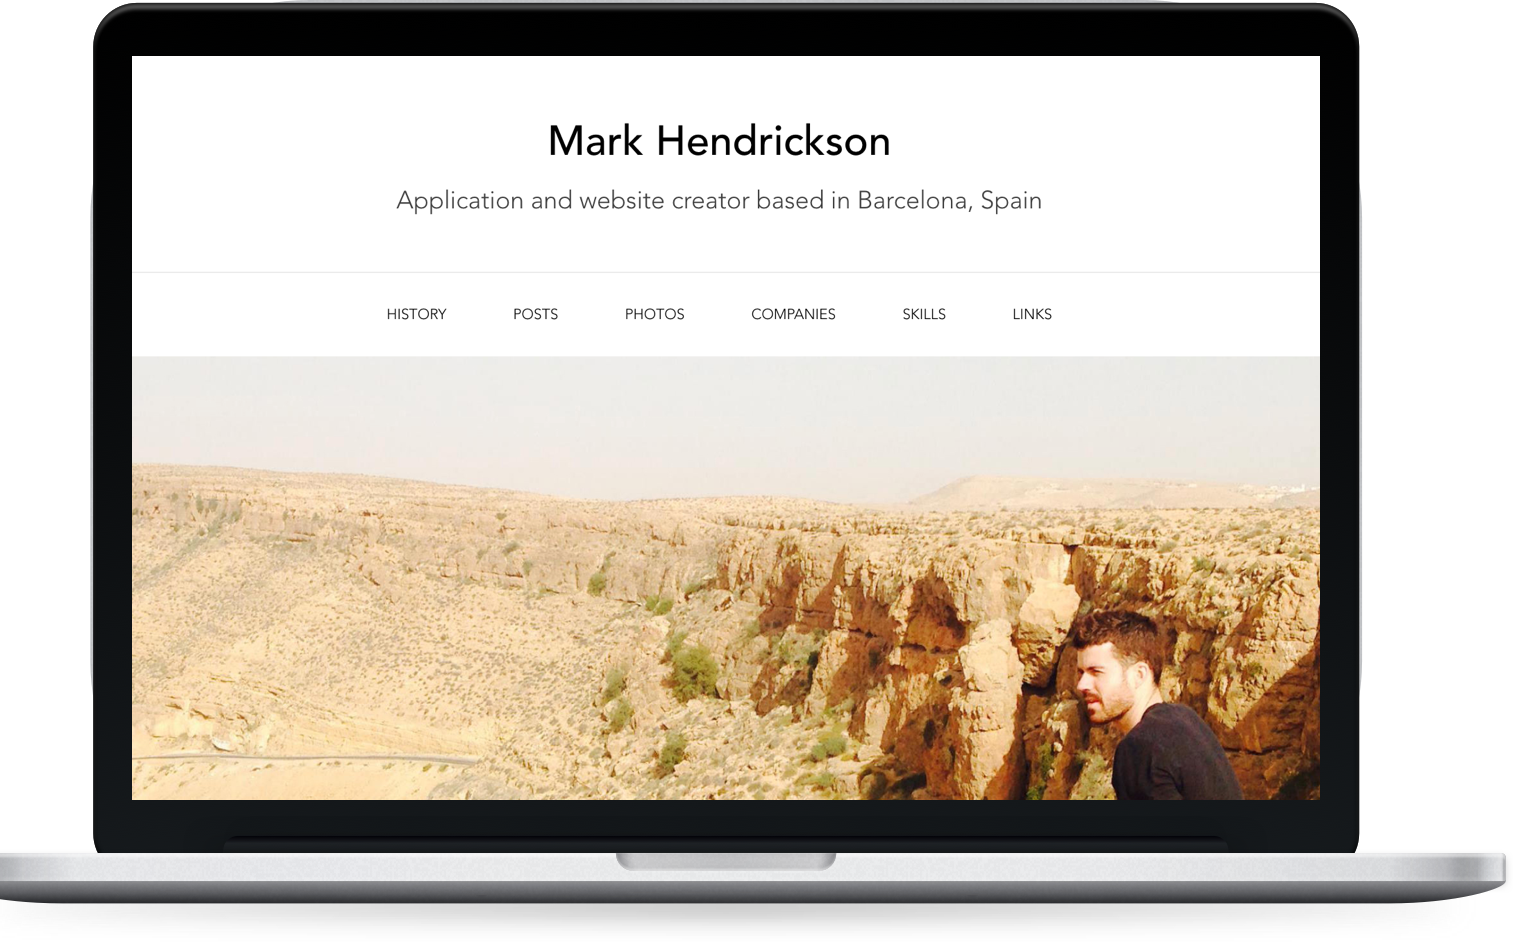
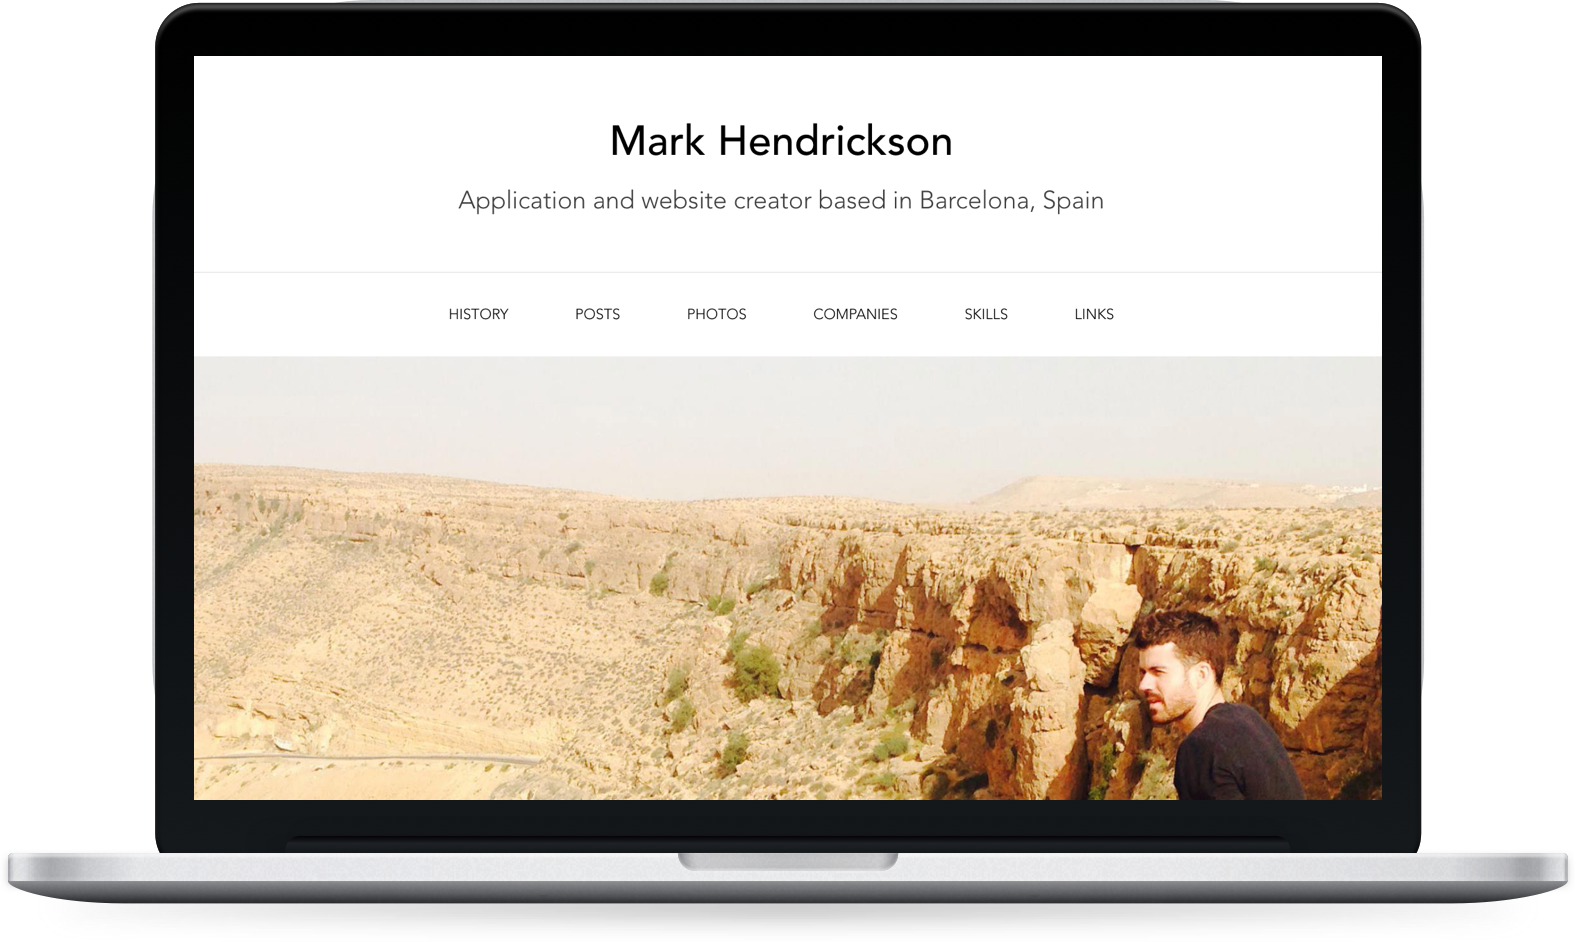
Improve responsive formatting of homepage

diff --git a/app/styles/components/app-intro-section.less b/app/styles/components/app-intro-section.less
@@ -8,7 +8,31 @@
   }
 }
 
-@keyframes laptopAppear {
+@keyframes laptopAppearNarrow {
+  from {
+    opacity: 0;
+    transform: translateX(-100%) translateY(0);
+  }
+
+  to {
+    opacity: 1;
+    transform: translateX(-50%) translateY(0);
+  }
+}
+
+@keyframes mobileAppearNarrow {
+  from {
+    opacity: 0;
+    transform: translateX(25%) translateY(65%);
+  }
+
+  to {
+    opacity: 1;
+    transform: translateX(25%) translateY(45%);
+  }
+}
+
+@keyframes laptopAppearWide {
   from {
     opacity: 0;
     transform: translateX(-100%) translateY(-50%);
@@ -16,64 +40,83 @@
 
   to {
     opacity: 1;
-    transform: translateX(-15%) translateY(-50%);
+    transform: translateX(0) translateY(-50%);
   }
 }
 
-@keyframes mobileAppear {
+@keyframes mobileAppearWide {
   from {
     opacity: 0;
-    transform: translateX(150%) translateY(-20%);
+    transform: translateX(220%) translateY(-20%);
   }
 
   to {
     opacity: 1;
-    transform: translateX(150%) translateY(-30%);
+    transform: translateX(220%) translateY(-30%);
   }
 }
 
 section.app-intro {
   .standard-hero;
 
-  div {
-    &.content {
-      animation-delay: 0.75s;
-      animation-duration: 1s;
-      animation-fill-mode: forwards;
-      animation-name: contentAppear;
-      opacity: 0;
+  div.content {
+    animation-delay: 0.75s;
+    animation-duration: 1s;
+    animation-fill-mode: forwards;
+    animation-name: contentAppear;
+    padding: 2em;
+    opacity: 0;
+
+    @media (min-width: 900px) {
+      padding: 0;
+    }
+  }
+
+  div.images {
+    height: 24vh;
+
+    @media (min-width: 900px) {
+      height: auto;
     }
 
     img {
       position: absolute;
-      left: 0;
-      max-height: 90vh;
+      left: 50%;
+      top: 0;
       max-width: 100%;
-      transform: translateY(-50%);
-      top: 50%;
-    }
 
-    &:first-child {
-      img.laptop-preview {
-        animation-duration: 0.75s;
-        animation-fill-mode: forwards;
-        animation-name: laptopAppear;
-        transform: translateX(-15%) translateY(-50%);
+      @media (min-width: 900px) {
+        left: 0;
+        transform: translateY(-50%);
+        top: 50%;
       }
 
-      img.mobile-preview {
+      &.laptop-preview {
+        animation-duration: 0.75s;
+        animation-fill-mode: forwards;
+        animation-name: laptopAppearNarrow;
+        height: 100%;
+
+        @media (min-width: 900px) {
+          animation-name: laptopAppearWide;
+          height: auto;
+        }
+      }
+
+      &.mobile-preview {
         animation-delay: 0.75s;
         animation-duration: 0.75s;
         animation-fill-mode: forwards;
-        animation-name: mobileAppear;
+        animation-name: mobileAppearNarrow;
+        height: 75%;
         opacity: 0;
-        transform: translateX(150%) translateY(-30%);
-        width: 25%;
-      }
-    }
 
-    &:last-child {
-      padding-left: 0;
+        @media (min-width: 900px) {
+          animation-name: mobileAppearWide;
+          height: auto;
+          width: 25%;
+        }
+      }
     }
   }
 }

diff --git a/app/styles/components/blockstack-intro-section.less b/app/styles/components/blockstack-intro-section.less
@@ -35,50 +35,63 @@
 section.blockstack-intro {
   .standard-hero;
 
-  div {
-    &.content {
-      animation-delay: 1s;
-      animation-duration: 1s;
-      animation-fill-mode: forwards;
-      animation-name: contentAppear;
-      opacity: 0;
+  div.content {
+    animation-delay: 1s;
+    animation-duration: 1s;
+    animation-fill-mode: forwards;
+    animation-name: contentAppear;
+    opacity: 0;
+
+    p {
+      margin-top: 1em;
+    }
+  }
+
+  div.images {
+    height: 24vh;
+
+    @media (min-width: 900px) {
+      height: auto;
     }
 
     img {
       position: absolute;
-      right: 0;
-      max-height: 90vh;
-      max-width: 100%;
-      transform: translateY(-50%);
-      top: 50%;
-    }
 
-    &:last-child {
-      img:first-child {
+      @media (min-width: 900px) {
+        max-height: 90vh;
+        max-width: 100%;
+        right: 0;
+        transform: translateY(-50%);
+        top: 50%;
+      }
+
+      &:first-child {
         animation-delay: 0.25s;
         animation-duration: 0.75s;
         animation-fill-mode: forwards;
         animation-name: blockstackAppear1;
-        max-width: 450px;
         opacity: 0;
-        transform: translateX(-50%) translateY(-60%);
         z-index: 10;
+
+        @media (min-width: 900px) {
+          transform: translateX(-50%) translateY(-60%);
+          max-width: 450px;
+        }
       }
 
-      img:last-child {
+      &:last-child {
         animation-delay: 1.25s;
         animation-duration: 0.75s;
         animation-fill-mode: forwards;
         animation-name: blockstackAppear2;
         opacity: 0;
-        transform: translateX(-50%) translateY(-30%);
-        max-width: 371px;
         z-index: 11;
-      }
-    }
 
-    &:last-child {
-      padding-left: 0;
+        @media (min-width: 900px) {
+          transform: translateX(-50%) translateY(-30%);
+          max-width: 371px;
+        }
+      }
     }
   }
 }

diff --git a/app/styles/standards.less b/app/styles/standards.less
@@ -58,6 +58,7 @@
   letter-spacing: 1px;
   padding: 1em 4em 1em 4em;
   position: relative;
+  text-align: center;
   text-transform: uppercase;
   transition: color 0.25s, border 0.25s, transform 0.25s, background 0.25s;
   width: ~"calc(100% - 64px)";
@@ -195,7 +196,7 @@
   box-sizing: border-box;
   font-size: 26px;
   margin: auto;
-  padding: 0 16px;
+  padding: 0;
 
   @media (min-width: 40em) {
     font-size: 32px;
@@ -223,37 +224,61 @@
 .standard-hero {
   align-items: center;
   box-sizing: border-box;
-  display: flex;
+  display: block;
   justify-content: center;
   min-height: 100vh;
   padding: 0;
 
+  @media (min-width: 900px) {
+    display: flex;
+    padding: 2em;
+  }
+
+  @media (min-width: 1100px) and (min-height: 750px) {
+    padding: 4em;
+  }
+
   >div {
     box-sizing: border-box;
+    max-width: 600px;
+    margin: 2em auto;
     position: relative;
-    width: 50%;
+
+    @media (min-width: 900px) {
+      margin: 2em;
+      width: 50%;
+    }
 
     &.content {
-      padding: 0 96px;
       text-align: left;
     }
 
     h1 {
-      font-size: 2em;
+      font-size: 1.6em;
       line-height: 1.5em;
+      margin-bottom: 1em;
+
+      @media (min-width: 900px) {
+        font-size: 2em;
+      }
     }
 
     p {
-      font-size: 22px;
+      font-size: 18px;
 
-      &:first-of-type {
-        margin-top: 2em;
+      @media (min-width: 900px) {
+        font-size: 22px;
       }
     }
 
     >a, button {
       .standard-button-primary;
-      margin-top: 3.5em;
+      margin-top: 3em;
+      width: 100%;
+
+      @media (min-width: 900px) {
+        width: auto;
+      }
     }
   }
 }
